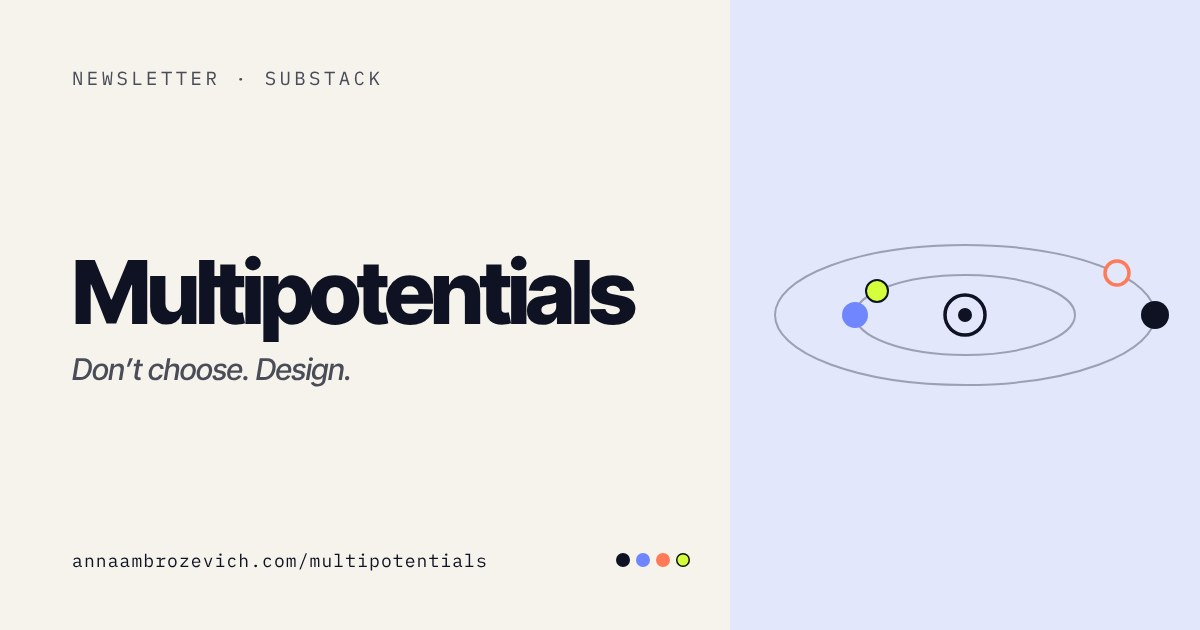
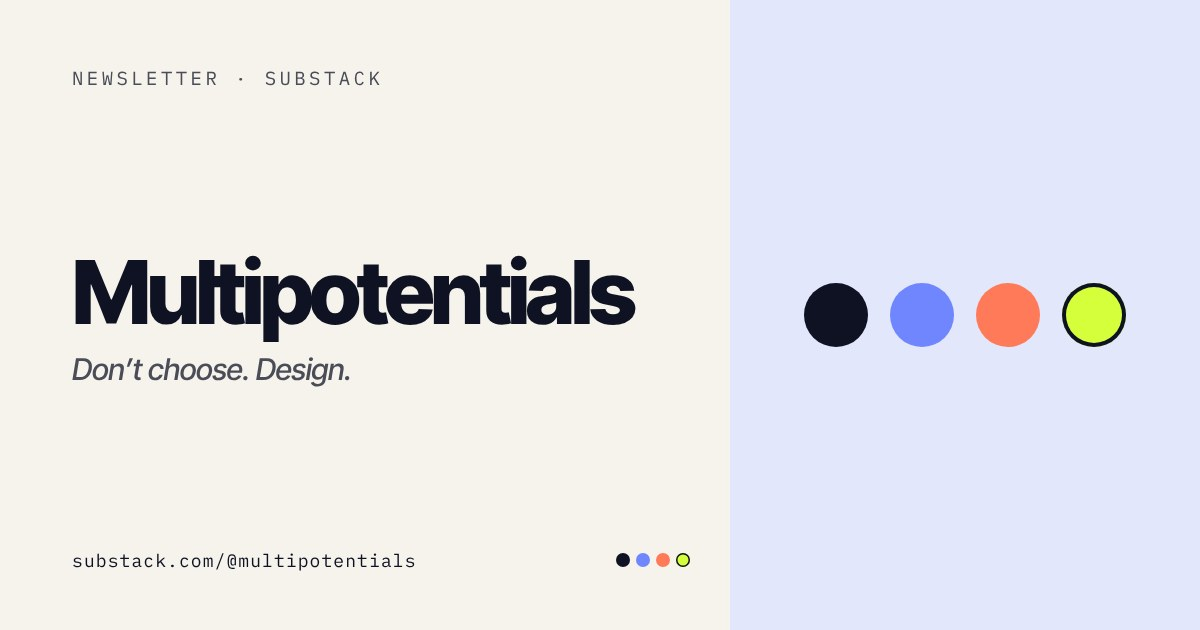
New Multipotentials and research share cards
Claude-Session: https://claude.ai/code/session_01G8tvaSXBmnMuzZpKsGv1oq

diff --git a/research/index.html b/research/index.html
@@ -3,12 +3,12 @@
 <head>
 <meta charset="utf-8">
 <meta name="viewport" content="width=device-width,initial-scale=1">
-<title>The Self-Learning Stack™ · Anna Ambrozevich</title>
-<meta name="description" content="My original framework for staying irreplaceable in the AI era. Two insight reports, coming soon.">
+<title>Two insight reports · Coming soon</title>
+<meta name="description" content="Two insight reports on The Self-Learning Stack™: Staying Irreplaceable and Building Brain Capital. Coming soon.">
 <meta property="og:type" content="website">
 <meta property="og:site_name" content="Anna Ambrozevich">
-<meta property="og:title" content="The Self-Learning Stack™ · Anna Ambrozevich">
-<meta property="og:description" content="My original framework for staying irreplaceable in the AI era. Two insight reports, coming soon.">
+<meta property="og:title" content="Two insight reports · Coming soon">
+<meta property="og:description" content="Two insight reports on The Self-Learning Stack™: Staying Irreplaceable and Building Brain Capital. Coming soon.">
 <meta property="og:url" content="https://annaambrozevich.com/research/">
 <meta property="og:image" content="https://annaambrozevich.com/img/og-research.jpg">
 <meta property="og:image:width" content="1200">
